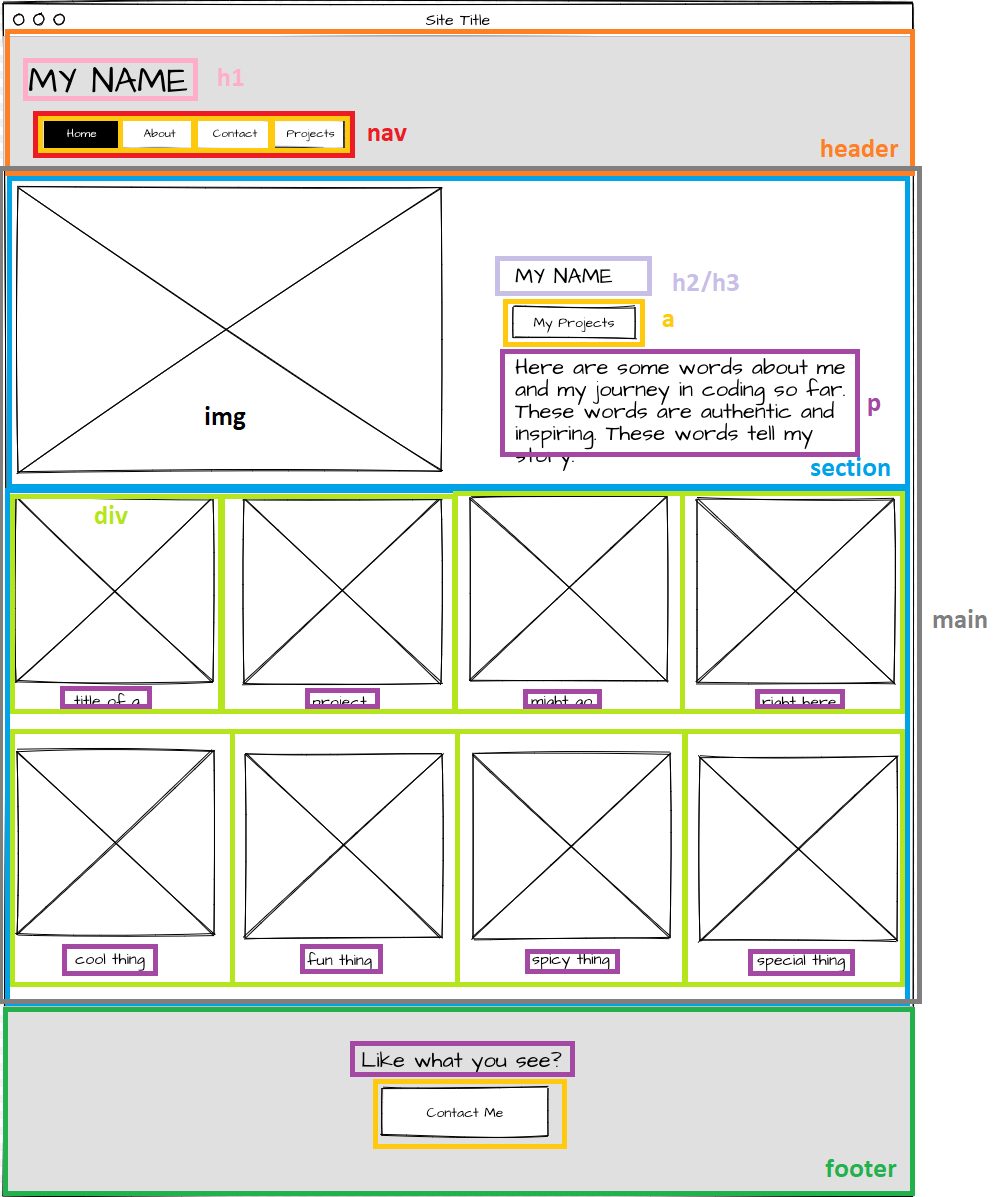
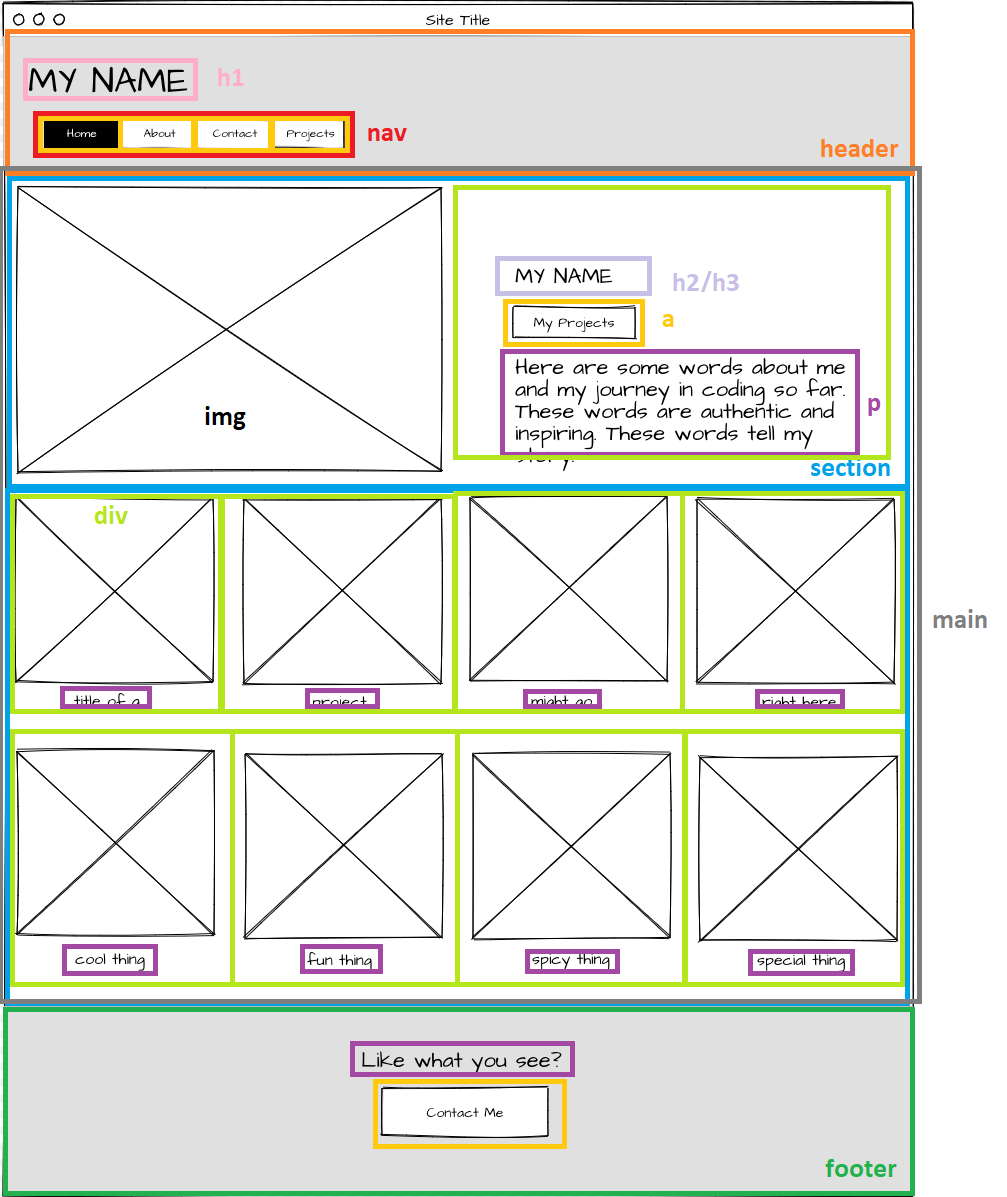
Added base structure to index.html

Changed region(s): [[0.431, 0.1546, 0.8928, 0.4018]]

diff --git a/index.html b/index.html
@@ -3,9 +3,67 @@
 <head>
     <meta charset="UTF-8">
     <meta name="viewport" content="width=device-width, initial-scale=1.0">
-    <title>Document</title>
+    <title>Nick Allen</title>
 </head>
 <body>
-    
+    <header>
+        <h1>Nick Allen</h1>
+        <nav>
+            <a href="#">Home</a>
+            <a href="#">About</a>
+            <a href="#">Contact</a>
+            <a href="#">Projects</a>
+        </nav>
+    </header>
+    <main>
+        <section class="profile">
+            <img class="portrait" src="https://picsum.photos/400/200">
+            <div class="bio">
+                <h2>Nick Allen</h2>
+                <a href="#">My Projects</a>
+                <p>Here are some words about me and my journey in coding so far.
+                    These words are authentic and inspiring. These words tell my story.
+                </p>
+            </div>
+        </section>
+        <section class="gallery">
+            <div class="card">
+                <img src="Http://picsum.photos/200">
+                <p>caption</p>
+            </div>
+            <div class="card">
+                <img src="Http://picsum.photos/200">
+                <p>caption</p>
+            </div>
+            <div class="card">
+                <img src="Http://picsum.photos/200">
+                <p>caption</p>
+            </div>
+            <div class="card">
+                <img src="Http://picsum.photos/200">
+                <p>caption</p>
+            </div>
+            <div class="card">
+                <img src="Http://picsum.photos/200">
+                <p>caption</p>
+            </div>
+            <div class="card">
+                <img src="Http://picsum.photos/200">
+                <p>caption</p>
+            </div>
+            <div class="card">
+                <img src="Http://picsum.photos/200">
+                <p>caption</p>
+            </div>
+            <div class="card">
+                <img src="Http://picsum.photos/200">
+                <p>caption</p>
+            </div>
+        </section>
+    </main>
+    <footer>
+        <h3>Like what you see?</h3>
+        <a class="contact" href="#">Contact Me</a>
+    </footer>
 </body>
 </html>
